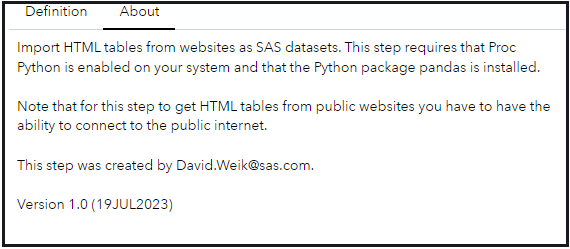
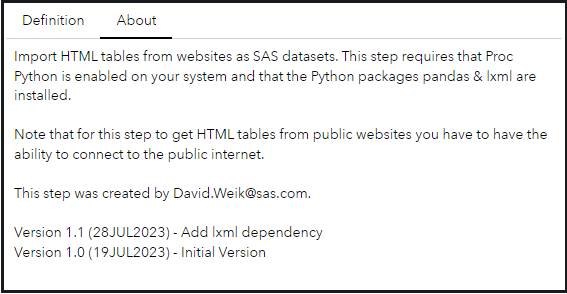
Document lxml dependency

Changed region(s): [[0.0, 0.0, 1.0, 1.0]]

diff --git a/Import - HTML Table/README.md b/Import - HTML Table/README.md
@@ -2,7 +2,7 @@
 
 ## Description
 
-The **Import - HTML Table** custom step enables SAS Studio users to import HTML tables from other websites as SAS tables.
+The **Import - HTML Table** custom step enables SAS Studio users to import HTML tables from other websites as SAS tables. This step requires that Proc Python is enabled on your system and that the Python packages *pandas* & *lxml* are installed.
 
 ## User Interface
 
@@ -24,13 +24,15 @@ You can choose to extract tables from website in three modes:
 
 ## Requirements
 
-SAS Viya 2023.06 or later
+SAS Viya 2023.07 or later
 
 Python 3.8 or later
 
 **Python packages:**
 
-pandas
+- pandas
+
+- lxml
 
 ## Usage
 
@@ -38,5 +40,8 @@ Find a demonstration of this step in this YouTube video: [Import - HTML Table | 
 
 ## Change Log
 
+* Version 1.1 (28JUL2023)
+    * Document lxml dependency
+    * Add explicit error if pandas & lxml are not installed
 * Version 1.0 (19JUL2023)
     * Initial version
